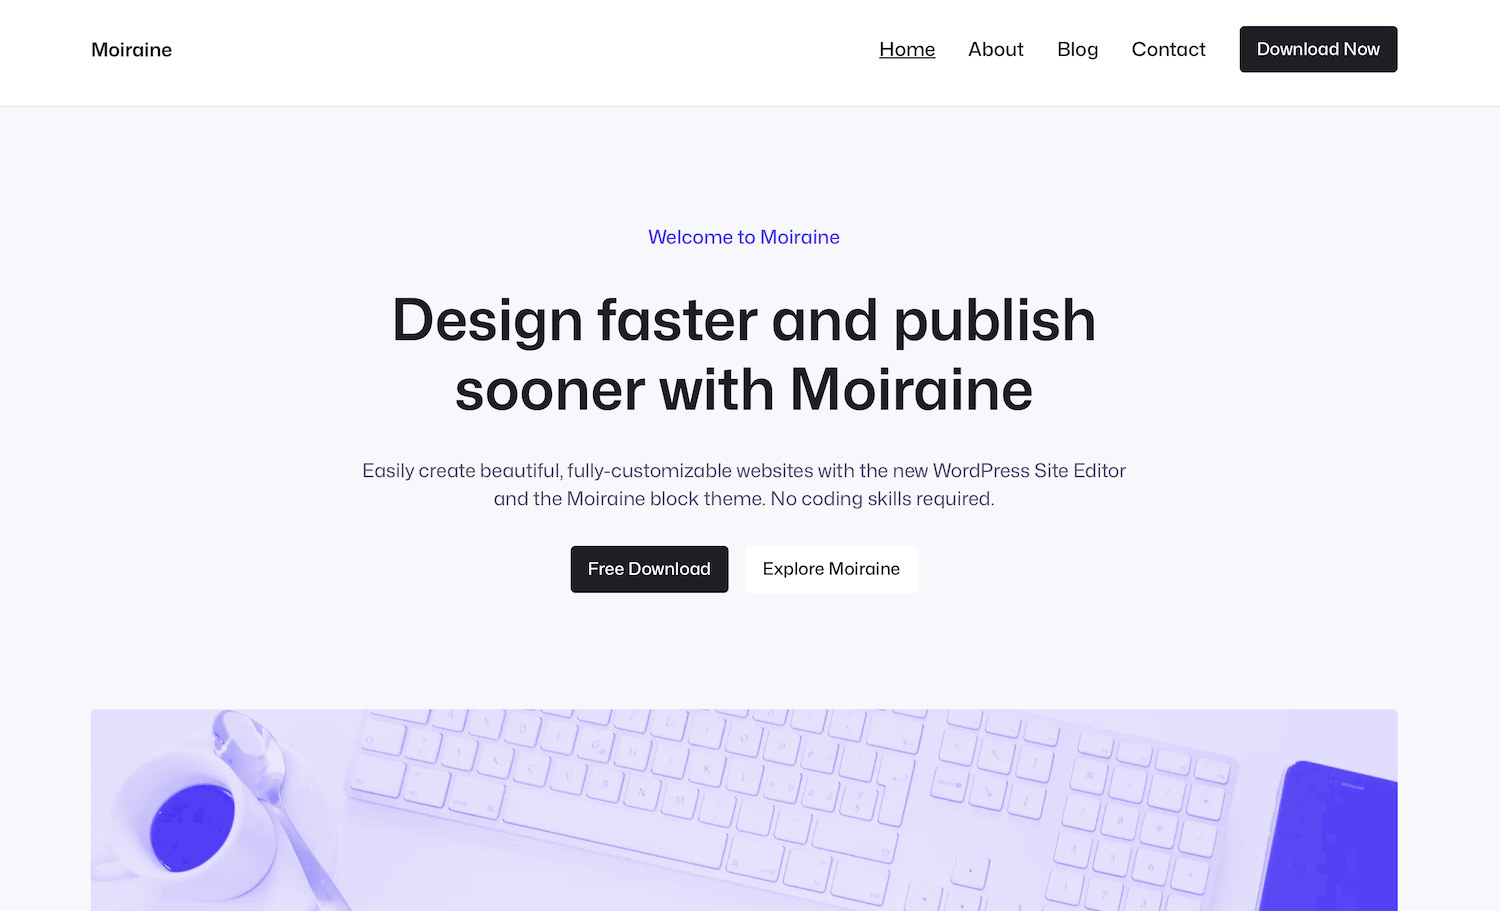
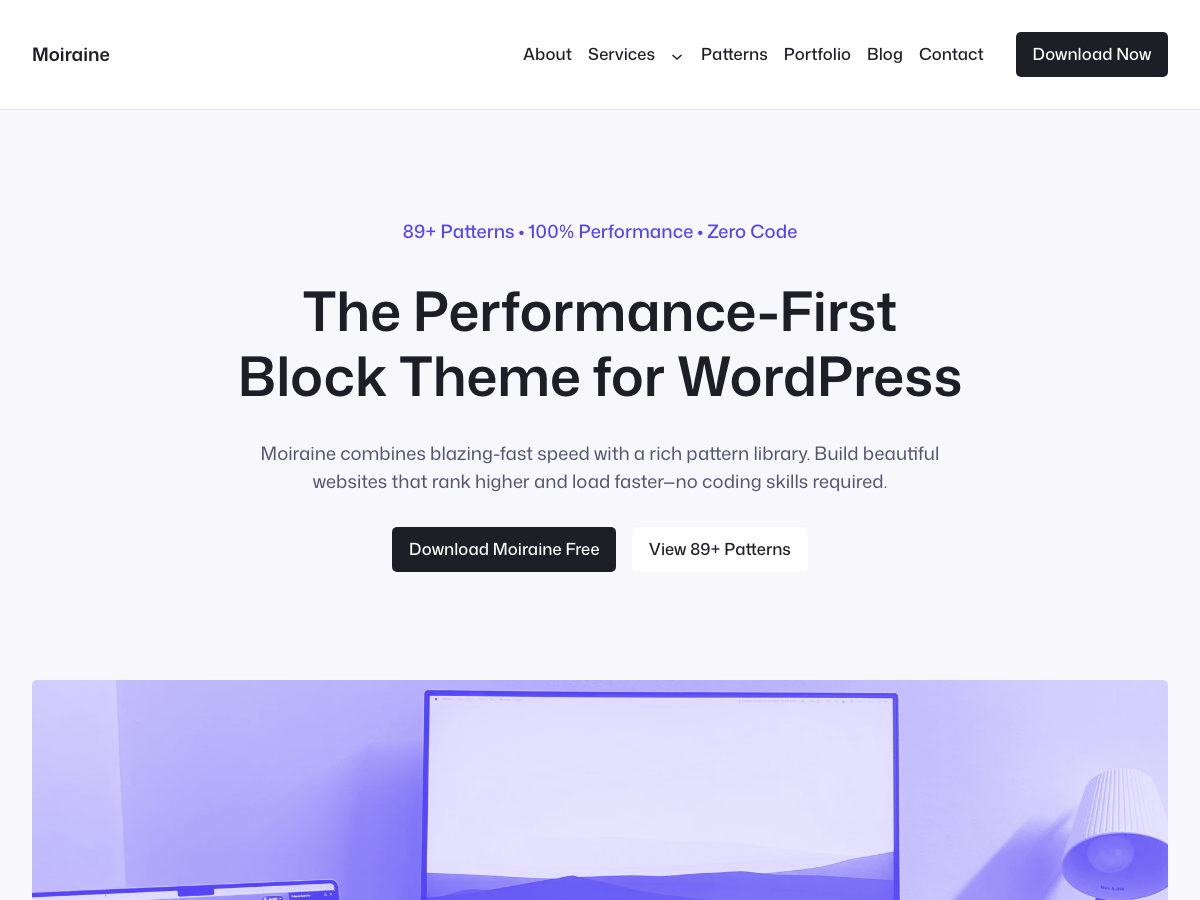
WordPress Submission Prep

diff --git a/style.css b/style.css
@@ -7,7 +7,7 @@ Description: Launch a blazing-fast, pixel-perfect website with the Moiraine Word
 Tags: blog, portfolio, entertainment, grid-layout, one-column, two-columns, three-columns, four-columns, block-patterns, block-styles, custom-logo, custom-menu, editor-style, featured-images, full-site-editing, full-width-template, rtl-language-support, style-variations, template-editing, theme-options, translation-ready, wide-blocks
 Tested up to: 6.7.1
 Requires PHP: 7.3
-Version: 2.5.4
+Version: 2.5.5
 License: GNU General Public License v3 or later
 License URI: https://www.gnu.org/licenses/gpl-2.0.html
 Text Domain: moiraine

diff --git a/CHANGELOG.md b/CHANGELOG.md
@@ -5,6 +5,16 @@ All notable changes to the Moiraine WordPress theme will be documented in this f
 The format is based on [Keep a Changelog](https://keepachangelog.com/en/1.0.0/),
 and this project adheres to [Semantic Versioning](https://semver.org/spec/v2.0.0.html).
 
+## [2.5.5] - 2025-11-14
+
+### Changed
+- **Screenshot**: Updated theme screenshot to WordPress.org compliant dimensions (1200×900 pixels, 4:3 aspect ratio)
+  - Previous: 1500×911 pixels (incorrect aspect ratio)
+  - New: 1200×900 pixels (WordPress.org standard)
+  - File size reduced from 352KB to 156KB (56% reduction)
+  - Captures demo site homepage with hero section and key features
+- **Documentation**: Updated readme.txt with complete changelog entries for versions 2.4.1 through 2.5.4
+
 ## [2.5.4] - 2025-11-12
 
 ### Security
